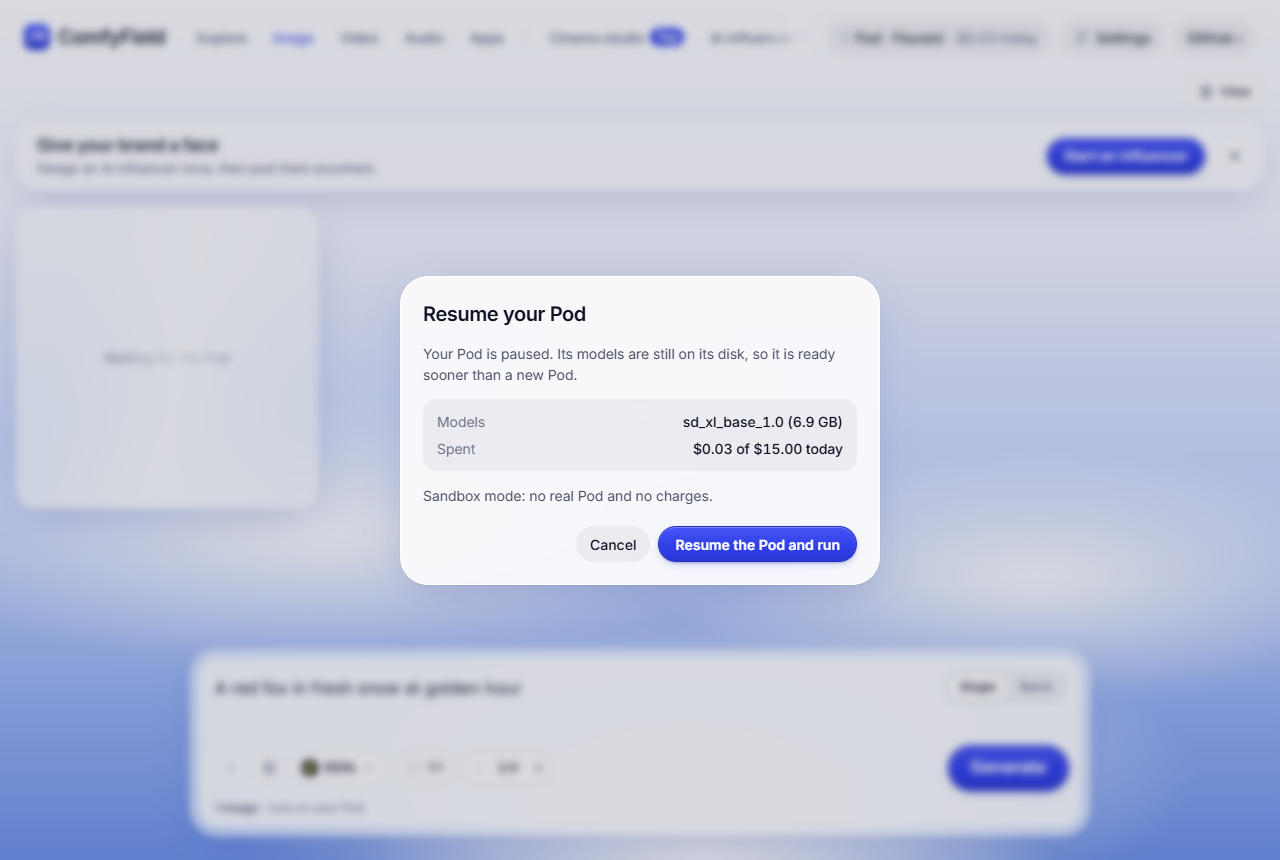
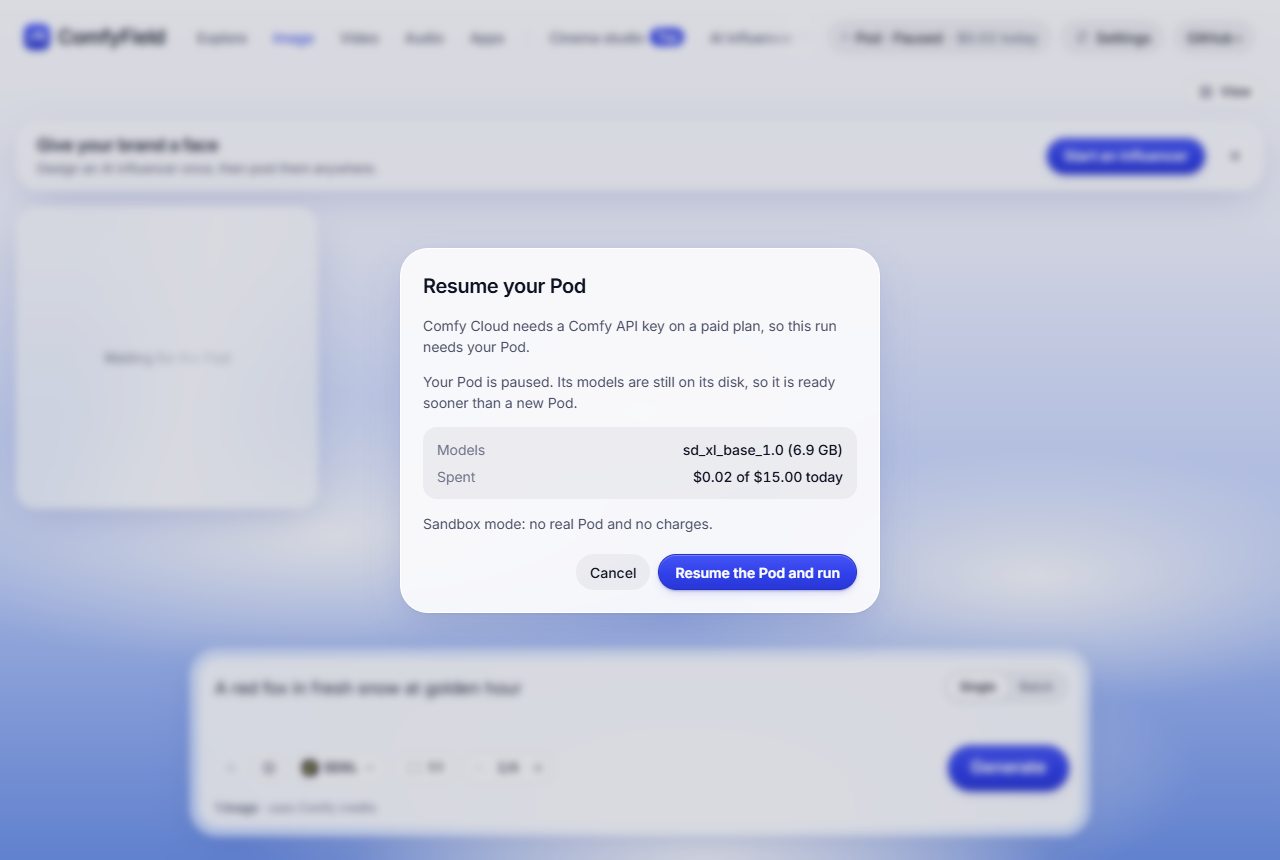
Run on Comfy Cloud at once, and on a Pod when one is ready
The Pod is now the long-term option and Comfy Cloud the instant one.
"Run workflows on" is Local or Comfy Cloud + Pod. A ready Pod takes
every ComfyUI run; otherwise a run goes to Comfy Cloud at once, also
while a Pod boots. Only a run Comfy Cloud cannot take (no Comfy key, or
a model file Cloud lacks, marked in shared/modelFiles.js) waits for a
starting Pod, or fails with needs_pod and its reason. The app then
opens the start sheet with that reason and runs again; the CLI and MCP
print it and never start a Pod. The chip shows wherever a Pod is an
option and says where runs go; the composer footnote follows the Pod.
pod-checks covers every row of the routing table.

Closes #73.

Changed region(s): [[0.3125, 0.2721, 0.6875, 0.7256]]

diff --git a/server/core.js b/server/core.js
@@ -7,7 +7,7 @@ import { randomUUID } from 'node:crypto'
 import { Comfy } from '@comfyorg/sdk'
 import { models as pinned, falCategories } from '../src/lib/catalog.js'
 import { comfyVars, comfyRouterInput, falInput, estimate, fill } from '../shared/mapping.js'
-import { modelFilesOf, minVramOf, volumeFor } from '../shared/modelFiles.js'
+import { modelFilesOf, minVramOf, notOnCloud, volumeFor } from '../shared/modelFiles.js'
 
 import { podManager } from './pod.js'
 import { sandboxFetch } from './podSandbox.js'
@@ -307,9 +307,8 @@ export async function writePrompts({ idea, n = 6, kind = 'video' }) {
 export async function testConnection(id) {
   const c = config(id)
   if (id === 'comfy') {
-    if (c.mode === 'pod') return pod().test()
-    if (c.mode === 'cloud') {
-      if (!c.key) return false
+    if (c.mode === 'cloud' || c.mode === 'pod') {
+      if (!c.key) return pod().test()
       const r = await fetch('https://cloud.comfy.org/api/user', { headers: { 'X-API-Key': c.key } })
       return r.ok
     }
@@ -335,8 +334,9 @@ export const mediaPath = (name) => path.join(mediaDir(), path.basename(name))
 export function connections() {
   const out = Object.fromEntries(Object.keys(providers).map((id) => {
     const c = config(id)
-    const on = id !== 'comfy' ? c.key : c.mode === 'cloud' ? c.key : c.mode === 'pod' ? config('runpod').key || sandboxed() : c.url || c.key
-    return [id, { connected: Boolean(on), url: c.url, key: mask(c.key), ...(id === 'comfy' ? { mode: c.mode || 'local' } : {}) }]
+    // Comfy Cloud + Pod can run with a Comfy key, or with a RunPod key through a Pod.
+    const on = id !== 'comfy' ? c.key : c.mode === 'cloud' || c.mode === 'pod' ? c.key || config('runpod').key || sandboxed() : c.url || c.key
+    return [id, { connected: Boolean(on), url: c.url, key: mask(c.key), ...(id === 'comfy' ? { mode: c.mode === 'pod' ? 'cloud' : c.mode || 'local' } : {}) }]
   }))
   out.comfyRouter = { connected: Boolean(config('comfy').key) }
   const rp = config('runpod')
@@ -346,7 +346,7 @@ export function connections() {
 
 export function saveConnection(id, values) {
   if (!providers[id]) throw Object.assign(new Error('Unknown provider'), { status: 400 })
-  if (id === 'comfy' && values.mode && !['local', 'cloud', 'pod'].includes(values.mode)) throw Object.assign(new Error('Choose Local, Comfy Cloud or Pod.'), { status: 400 })
+  if (id === 'comfy' && values.mode && !['local', 'cloud'].includes(values.mode)) throw Object.assign(new Error('Choose Local or Comfy Cloud + Pod.'), { status: 400 })
   if (id === 'runpod' && values.cap != null && !(parseFloat(values.cap) > 0)) throw Object.assign(new Error('The daily cap is a dollar amount above 0.'), { status: 400 })
   if (id === 'runpod' && values.cap != null) values = { ...values, cap: String(Math.round(parseFloat(values.cap) * 100) / 100) }
   const keys = readKeys()
@@ -480,8 +480,22 @@ export function workflowNeeds(workflow) {
   return { files, minVramGb: minVramOf(files), volumeGb: volumeFor(files) }
 }
 
+// Comfy Cloud is the instant option and a Pod the long-term one. A ready Pod takes every ComfyUI run;
+// otherwise a run goes to Comfy Cloud at once, unless Cloud cannot take it. Then it waits for a
+// starting Pod, or fails with needs_pod so the app can offer to start one. It never starts a Pod.
+async function comfyTarget(files, podPhase) {
+  const phase = await podPhase()
+  if (phase === 'ready') return 'pod'
+  const missing = notOnCloud(files)
+  const why = !config('comfy').key ? 'Comfy Cloud needs a Comfy API key on a paid plan'
+    : missing.length ? `${missing[0].name} is not on Comfy Cloud` : null
+  if (!why) return 'cloud'
+  if (phase === 'starting' || phase === 'resuming') return 'pod'
+  throw Object.assign(new Error(`${why}, so this run needs a Pod. Start one in ComfyField from the Pod chip in the top bar.`), { status: 409, code: 'needs_pod', reason: why })
+}
+
 // Runs a bundled workflow on Local ComfyUI, Comfy Cloud or the Pod, and returns file URLs.
-export async function runComfy(workflow, vars = {}, { createClient = (key, baseUrl) => comfyClient(baseUrl, key), lease = (o) => pod().lease(o) } = {}) {
+export async function runComfy(workflow, vars = {}, { createClient = (key, baseUrl) => comfyClient(baseUrl, key), lease = (o) => pod().lease(o), podPhase = () => pod().phaseNow() } = {}) {
   const { file, template } = readWorkflow(workflow)
   const inputs = [...JSON.stringify(template).matchAll(/\{\{(\w+)\}\}/g)].map((m) => m[1])
   for (const input of inputs) if (vars[input] == null || vars[input] === '') throw new Error(`Workflow ${workflow} requires ${input}.`)
@@ -489,13 +503,16 @@ export async function runComfy(workflow, vars = {}, { createClient = (key, baseU
   const loaders = Object.entries(template).filter(([, node]) => node.class_type === 'LoadImage' && node.inputs.image === '{{image}}')
   const image = loaders.length ? await comfyImage(vars.image) : null
   const mode = config('comfy').mode
+  // 'pod' was its own choice before the Pod joined Comfy Cloud; read it as Comfy Cloud + Pod.
   if (mode === 'cloud' || mode === 'pod') {
+    const needs = modelFilesOf(graph)
+    const target = await comfyTarget(needs, podPhase)
     // On the Pod the proxy token is the server credential; the Comfy key, when set, only pays partner nodes.
     let held = null
     let client
     let partner
-    if (mode === 'pod') {
-      held = await lease({ files: modelFilesOf(graph) })
+    if (target === 'pod') {
+      held = await lease({ files: needs })
       if (held.sandbox) {
         held.release()
         throw new Error('This is the sandbox Pod, so nothing renders. Unset COMFYFIELD_POD_SANDBOX to run on a real Pod.')
@@ -506,7 +523,7 @@ export async function runComfy(workflow, vars = {}, { createClient = (key, baseU
       partner = comfyKey()
       client = createClient(partner)
     }
-    const where = mode === 'pod' ? 'The Pod' : 'Comfy Cloud'
+    const where = target === 'pod' ? 'The Pod' : 'Comfy Cloud'
     try {
       const wf = await client.workflows.fromFile(file)
       wf.json = graph

diff --git a/shared/modelFiles.js b/shared/modelFiles.js
@@ -1,12 +1,13 @@
 // Model files a Pod can download, by the filename a workflow's loader node names. A workflow lists
 // nothing itself: its graph is the source of truth, and this list says where each file comes from.
 // Public Hugging Face repos only; sizes checked on the Hugging Face API on 2026-10-17.
+// `cloud` marks files Comfy Cloud already has (its model listing, 2026-10-16), so a run can go there at once.
 export const MODEL_FILES = {
-  'flux1-dev-fp8.safetensors': { repo: 'Comfy-Org/flux1-dev', path: 'flux1-dev-fp8.safetensors', dir: 'checkpoints', gb: 17.25, vramGb: 24 },
-  'flux1-schnell-fp8.safetensors': { repo: 'Comfy-Org/flux1-schnell', path: 'flux1-schnell-fp8.safetensors', dir: 'checkpoints', gb: 17.24, vramGb: 24 },
-  'sd_xl_base_1.0.safetensors': { repo: 'stabilityai/stable-diffusion-xl-base-1.0', path: 'sd_xl_base_1.0.safetensors', dir: 'checkpoints', gb: 6.94, vramGb: 12 },
-  'ltx-video-2b-v0.9.5.safetensors': { repo: 'Lightricks/LTX-Video', path: 'ltx-video-2b-v0.9.5.safetensors', dir: 'checkpoints', gb: 6.34, vramGb: 16 },
-  't5xxl_fp16.safetensors': { repo: 'comfyanonymous/flux_text_encoders', path: 't5xxl_fp16.safetensors', dir: 'text_encoders', gb: 9.79, vramGb: 0 },
+  'flux1-dev-fp8.safetensors': { repo: 'Comfy-Org/flux1-dev', path: 'flux1-dev-fp8.safetensors', dir: 'checkpoints', gb: 17.25, vramGb: 24, cloud: true },
+  'flux1-schnell-fp8.safetensors': { repo: 'Comfy-Org/flux1-schnell', path: 'flux1-schnell-fp8.safetensors', dir: 'checkpoints', gb: 17.24, vramGb: 24, cloud: true },
+  'sd_xl_base_1.0.safetensors': { repo: 'stabilityai/stable-diffusion-xl-base-1.0', path: 'sd_xl_base_1.0.safetensors', dir: 'checkpoints', gb: 6.94, vramGb: 12, cloud: true },
+  'ltx-video-2b-v0.9.5.safetensors': { repo: 'Lightricks/LTX-Video', path: 'ltx-video-2b-v0.9.5.safetensors', dir: 'checkpoints', gb: 6.34, vramGb: 16, cloud: true },
+  't5xxl_fp16.safetensors': { repo: 'comfyanonymous/flux_text_encoders', path: 't5xxl_fp16.safetensors', dir: 'text_encoders', gb: 9.79, vramGb: 0, cloud: true },
 }
 
 // Which input of which loader names a file, and the ComfyUI folder it loads from.
@@ -43,6 +44,9 @@ export function modelFilesOf(graph) {
   }
   return [...out.values()]
 }
+
+// Files a run needs that Comfy Cloud does not have.
+export const notOnCloud = (files) => files.filter((f) => !f.cloud)
 
 export const minVramOf = (files) => Math.max(0, ...files.map((f) => f.vramGb || 0))
 export const volumeFor = (files) => Math.ceil(files.reduce((n, f) => n + f.gb, 0) + HEADROOM_GB)

diff --git a/src/pages/VideoStudio.jsx b/src/pages/VideoStudio.jsx
@@ -14,6 +14,7 @@ import { label, paramsFor, useModelInputs } from '../components/generate/useMode
 import { IconAt, IconBook, IconFolder, IconMute, IconPlay, IconSound } from '../components/generate/icons.jsx'
 import { IconAspect, IconClock, IconImage, IconSpark, IconStack, IconVideo } from '../components/Icons.jsx'
 import { useApp } from '../lib/appContext.js'
+import { usePod } from '../lib/usePod.js'
 import { openModels } from '../lib/tools.js'
 import { estimate, useBalance, useModelMeta } from '../lib/cost.js'
 import { flowFromBatch, openFlow } from '../lib/flowStore.js'
@@ -32,6 +33,7 @@ const animate = asOpen(openModels.find((m) => m.id === 'wan-animate-2'))
 
 function CreateVideo({ preset, onPresets, setError, onRan, addBatch }) {
   const { gens, connections } = useApp()
+  const { status: pod } = usePod()
   const pick = useGenModel('video')
   const { model } = pick
   const [start, setStart] = useState(null)
@@ -182,7 +184,7 @@ function CreateVideo({ preset, onPresets, setError, onRan, addBatch }) {
           {total > 0 ? (
             <>
               <strong>{batching ? `${prompts.length} ${prompts.length === 1 ? 'prompt' : 'prompts'} × ${perPrompt} = ` : ''}{total} {noun.video[total === 1 ? 0 : 1]}</strong>
-              {cost ? ` · ${costText(cost)}` : model.provider === 'comfy' ? connections.comfy?.mode === 'cloud' || model.workflow === 'h3_i2v' ? ' · uses Comfy credits' : connections.comfy?.mode === 'pod' ? ' · runs on your Pod' : ' · runs on your GPU' : model.provider === 'comfyRouter' ? ' · uses Comfy credits' : ''}
+              {cost ? ` · ${costText(cost)}` : model.provider === 'comfy' ? connections.comfy?.mode === 'cloud' ? pod?.phase === 'ready' ? ' · runs on your Pod' : ' · uses Comfy credits' : model.workflow === 'h3_i2v' ? ' · uses Comfy credits' : ' · runs on your GPU' : model.provider === 'comfyRouter' ? ' · uses Comfy credits' : ''}
             </>
           ) : 'The cost shows on Generate before you run'}
           {bal && <span>{bal}</span>}

diff --git a/src/components/pod/PodChip.jsx b/src/components/pod/PodChip.jsx
@@ -1,6 +1,6 @@
 import { useEffect, useRef, useState } from 'react'
 import { Link, useLocation } from 'react-router-dom'
-import { downloading, money, podAction, podLabel, spendText, usePod } from '../../lib/usePod.js'
+import { downloading, money, podAction, podLabel, showPod, spendText, usePod } from '../../lib/usePod.js'
 
 const CLOUD = { SECURE: 'Secure', COMMUNITY: 'Community' }
 const tone = (phase) => (phase === 'ready' ? ' ok' : phase === 'none' || phase === 'paused' ? '' : ' busy')
@@ -44,7 +44,7 @@ export default function PodChip() {
     }
   }, [open])
 
-  if (!s || (s.mode !== 'pod' && s.phase === 'none')) return null
+  if (!showPod(s)) return null
 
   const act = async (action, body) => {
     setBusy(true)
@@ -94,7 +94,9 @@ export default function PodChip() {
             </dl>
           ) : (
             <>
-              <p className="pod-note">No Pod is running. A ComfyUI run asks before it starts one.</p>
+              <p className="pod-note">{s.instant
+                ? 'ComfyUI runs use Comfy Cloud at once. Start a Pod for a long session: it costs less when you run a lot, and it runs any model.'
+                : 'Add a Comfy API key in Connections for instant runs on Comfy Cloud, or start a Pod.'}</p>
               <dl className="pod-facts"><div><dt>Spent</dt><dd>{spendText(s)}</dd></div></dl>
             </>
           )}
@@ -104,6 +106,8 @@ export default function PodChip() {
               <i style={{ '--p': `${pct(d)}%` }} />
             </div>
           ))}
+          {p === 'ready' && <p className="pod-note">ComfyUI runs use this Pod.</p>}
+          {p === 'starting' && s.instant && <p className="pod-note">Runs use Comfy Cloud until the Pod is ready.</p>}
           {s.event && <p className="pod-note">{s.event.text}</p>}
           {s.sandbox && <p className="pod-note">Sandbox mode: no real Pod and no charges.</p>}
           {!s.connected && <p className="pod-note">Add your RunPod key in <Link to="/connections">Connections</Link> to start a Pod.</p>}

diff --git a/src/pages/ImageStudio.jsx b/src/pages/ImageStudio.jsx
@@ -11,6 +11,7 @@ import { label, paramsFor, useModelInputs } from '../components/generate/useMode
 import { IconAt, IconGrid } from '../components/generate/icons.jsx'
 import { IconAspect, IconClose, IconImage, IconPlus, IconSpark } from '../components/Icons.jsx'
 import { useApp } from '../lib/appContext.js'
+import { usePod } from '../lib/usePod.js'
 import { uploadImage } from '../lib/providers.js'
 import { estimate, useBalance, useModelMeta } from '../lib/cost.js'
 import { flowFromBatch, openFlow } from '../lib/flowStore.js'
@@ -22,6 +23,7 @@ const fan = [covers.peach, covers.dusk, covers.sky, covers.rose]
 // Higgsfield's Create image: the feed fills the page and the prompt bar is pinned to the bottom.
 export default function ImageStudio() {
   const { gens, connections } = useApp()
+  const { status: pod } = usePod()
   const pick = useGenModel('image')
   const { model } = pick
   const [batchMode, setBatchMode] = useState(false)
@@ -190,7 +192,7 @@ export default function ImageStudio() {
             {connected && (total > 0 ? (
               <span>
                 <strong>{batchMode ? `${prompts.length} ${prompts.length === 1 ? 'prompt' : 'prompts'} × ${count} = ` : ''}{total} {noun.image[total === 1 ? 0 : 1]}</strong>
-                {cost ? ` · ${costText(cost)}` : model.provider === 'comfy' ? connections.comfy?.mode === 'cloud' ? ' · uses Comfy credits' : connections.comfy?.mode === 'pod' ? ' · runs on your Pod' : ' · runs on your GPU' : model.provider === 'comfyRouter' ? ' · uses Comfy credits' : ''}
+                {cost ? ` · ${costText(cost)}` : model.provider === 'comfy' ? connections.comfy?.mode === 'cloud' ? pod?.phase === 'ready' ? ' · runs on your Pod' : ' · uses Comfy credits' : ' · runs on your GPU' : model.provider === 'comfyRouter' ? ' · uses Comfy credits' : ''}
               </span>
             ) : <span>{batchMode ? 'Add prompts to see the total' : 'The cost shows on Generate before you run'}</span>)}
             {bal && <span>{bal}</span>}

diff --git a/src/lib/usePod.js b/src/lib/usePod.js
@@ -49,22 +49,25 @@ export function podLabel(s, now = Date.now()) {
 
 export const spendText = (s) => (s ? `${money(s.spend.today)} of ${money(s.spend.cap)} today` : '')
 
-// What a waiting take says while its run is held by the Pod.
+// What a waiting take says while its run is held by the Pod. Only runs sent to a starting Pod carry `pod`;
+// a ready Pod takes every ComfyUI run.
 export function takeLabel(it, s) {
-  if (it.provider !== 'comfy' || s?.mode !== 'pod') return null
-  if (s.phase !== 'ready') return 'Waiting for the Pod'
-  if (downloading(s).length) return 'Downloading models on the Pod'
+  if (it.provider !== 'comfy' || !s || s.mode !== 'cloud') return null
+  if (it.pod && s.phase !== 'ready') return 'Waiting for the Pod'
+  if (s.phase === 'ready' && downloading(s).length) return 'Downloading models on the Pod'
   return null
 }
 
-// Called by run() for a ComfyUI model. A ready or starting Pod needs no question.
-export async function ensurePod(workflow) {
-  const s = await refreshPod()
-  if (!s || s.mode !== 'pod' || s.phase === 'ready' || s.phase === 'starting' || s.phase === 'resuming') return
+// The chip shows where a Pod is an option, and always while one exists, because a Pod charges.
+export const showPod = (s) => Boolean(s && (s.phase !== 'none' || (s.mode === 'cloud' && s.connected)))
+
+// A run Comfy Cloud cannot take asks once for a Pod. `reason` says why Cloud cannot take it.
+export function askPod(workflow, reason) {
   if (!state.ask) {
     let resolve, reject
     const promise = new Promise((a, b) => { resolve = a; reject = b })
-    set({ ask: { workflow, promise, resolve, reject } })
+    set({ ask: { workflow, reason, promise, resolve, reject } })
+    refreshPod()
   }
   return state.ask.promise
 }

diff --git a/src/lib/catalog.js b/src/lib/catalog.js
@@ -40,12 +40,12 @@ export const falCategories = [
 ]
 
 export const providerInfo = {
-  comfy: { name: 'ComfyUI', blurb: 'Run workflows on your own ComfyUI, Comfy Cloud or a Pod on RunPod. Your Comfy key also unlocks hosted models through Comfy Router.', fields: [
-    { id: 'mode', label: 'Run workflows on', options: [{ value: 'local', label: 'Local' }, { value: 'cloud', label: 'Comfy Cloud' }, { value: 'pod', label: 'Pod' }] },
+  comfy: { name: 'ComfyUI', blurb: 'Run workflows on your own ComfyUI, or on Comfy Cloud in seconds. For a long session, start a Pod from the top bar: while it runs, ComfyUI runs use it. Your Comfy key also unlocks hosted models through Comfy Router.', fields: [
+    { id: 'mode', label: 'Run workflows on', options: [{ value: 'local', label: 'Local' }, { value: 'cloud', label: 'Comfy Cloud + Pod' }] },
     { id: 'url', label: 'Server URL', placeholder: 'http://127.0.0.1:8188' },
     { id: 'key', label: 'Comfy API key', placeholder: 'Required for Cloud, Router and partner nodes', secret: true },
   ], link: 'https://docs.comfy.org' },
-  runpod: { name: 'RunPod', blurb: 'Your RunPod key starts a Pod: a GPU that runs ComfyUI for you, billed by the minute. Once the spend today reaches the daily cap, no new Pod starts.', fields: [
+  runpod: { name: 'RunPod', blurb: 'Your RunPod key starts a Pod: a GPU that runs ComfyUI for you, billed by the minute. It suits long sessions; Comfy Cloud covers a couple of runs. Once the spend today reaches the daily cap, no new Pod starts.', fields: [
     { id: 'key', label: 'API key', placeholder: 'RunPod API key', secret: true },
     { id: 'cap', label: 'Daily cap in dollars', placeholder: '20' },
   ], link: 'https://www.runpod.io/console/user/settings' },

diff --git a/server/plugin.js b/server/plugin.js
@@ -236,7 +236,11 @@ function mount(server) {
     // Anything that spends money or changes saved data must come from ComfyField's own pages.
     if (url.pathname.startsWith('/api/') && req.method !== 'GET' && crossSite(req.headers)) return send(res, 403, { error: 'Requests from other sites are refused.' })
     try {
-      if (url.pathname === '/api/pod' && req.method === 'GET') return send(res, 200, { ...core.pod().status(), mode: core.config('comfy').mode || 'local' })
+      if (url.pathname === '/api/pod' && req.method === 'GET') {
+        const { mode, key } = core.config('comfy')
+        // instant: Comfy Cloud can take runs at once. 'pod' was its own mode before; it now means Comfy Cloud + Pod.
+        return send(res, 200, { ...core.pod().status(), mode: mode === 'pod' ? 'cloud' : mode || 'local', instant: Boolean(key) })
+      }
       if (url.pathname === '/api/pod/quote') return send(res, 200, await podQuote(url.searchParams.get('workflow')))
       if (url.pathname.startsWith('/api/pod/') && req.method === 'POST') return send(res, 200, await podAction(url.pathname.slice('/api/pod/'.length), await body(req)))
       if (url.pathname === '/api/connections' && req.method === 'GET') return send(res, 200, core.connections())
@@ -282,7 +286,7 @@ function mount(server) {
       }
       if (url.pathname.startsWith('/comfy/')) return proxyComfy(req, res, url)
     } catch (e) {
-      return send(res, e.status || 500, { error: e.message, ...(e.code ? { code: e.code } : {}) })
+      return send(res, e.status || 500, { error: e.message, ...(e.code ? { code: e.code } : {}), ...(e.reason ? { reason: e.reason } : {}) })
     }
     next()
   })

diff --git a/src/lib/providers.js b/src/lib/providers.js
@@ -1,5 +1,5 @@
 import { generate as runComfy } from './comfy.js'
-import { ensurePod } from './usePod.js'
+import { askPod } from './usePod.js'
 import { comfyVars, comfyRouterInput, falInput, durationsFromProps } from '../../shared/mapping.js'
 
 const schemas = new Map()
@@ -64,7 +64,8 @@ async function post(url, payload) {
   return data
 }
 
-export async function run(model, opts) {
+// hooks.onPod: the run is waiting for a Pod, after the start sheet.
+export async function run(model, opts, hooks = {}) {
   if (model.provider === 'comfyRouter') {
     const files = []
     for (let i = 0; i < (model.kind === 'image' ? opts.count || 1 : 1); i++) {
@@ -73,9 +74,17 @@ export async function run(model, opts) {
     return files
   }
   if (model.provider === 'comfy') {
-    // In Pod mode, a run with no ready Pod waits for the start sheet; it never starts one itself.
-    await ensurePod(model.workflow)
-    return runComfy(model.workflow, comfyVars(model.kind, opts))
+    // Comfy Cloud takes the run at once. When it cannot, the server says needs_pod: the start sheet
+    // asks once, then the same run goes again and waits for the Pod. It never starts one by itself.
+    const vars = comfyVars(model.kind, opts)
+    try {
+      return await runComfy(model.workflow, vars)
+    } catch (e) {
+      if (e.code !== 'needs_pod') throw e
+      hooks.onPod?.()
+      await askPod(model.workflow, e.reason)
+      return runComfy(model.workflow, vars)
+    }
   }
   if (model.provider === 'fal') {
     const endpoint = await endpointFor(model, Boolean(opts.images?.length))

diff --git a/src/components/pod/PodSheet.jsx b/src/components/pod/PodSheet.jsx
@@ -59,7 +59,8 @@ export default function PodSheet() {
     <div className="scrim" onClick={cancel}>
       <div className="form-sheet glass pop pod-sheet" role="dialog" aria-modal="true" aria-labelledby="pod-sheet-title" onClick={(e) => e.stopPropagation()}>
         <h3 id="pod-sheet-title">{copy.title}</h3>
-        {kind === 'start' && <p>This run needs a Pod: a GPU on RunPod that runs ComfyUI with your key. It charges by the minute until it terminates.</p>}
+        {kind === 'start' && <p>{ask.reason ? `${ask.reason}, so this run needs a Pod: ` : 'This run needs a Pod: '}a GPU on RunPod that runs ComfyUI with your key. It charges by the minute until it terminates.</p>}
+        {kind !== 'start' && ask.reason && <p>{ask.reason}, so this run needs your Pod.</p>}
         {kind === 'resume' && <p>Your Pod is paused. Its models are still on its disk, so it is ready sooner than a new Pod.</p>}
         {kind === 'keep' && <p>Your Pod is ending after its queue. Keep it to run this too.</p>}
         {!quote && !err && <p className="pod-note">Checking prices</p>}

diff --git a/server/pod.js b/server/pod.js
@@ -500,10 +500,17 @@ export function podManager({ fetch: net = (...a) => globalThis.fetch(...a), now 
     m.timer.unref?.()
   }
 
+  // The phase right now, read fresh, for routing a run in any process.
+  async function phaseNow() {
+    await adopt().catch(() => null)
+    await refresh().catch(() => null)
+    return phase()
+  }
+
   async function test() {
     if (!key()) return false
     return gql('query { myself { id } }').then((d) => Boolean(d?.myself?.id)).catch(() => false)
   }
 
-  return { status, quote, start, pause, resume, terminate, keep, lease, tick, refresh, startMonitor, stopMonitor, test, guard, spentToday }
+  return { status, quote, start, pause, resume, terminate, keep, lease, tick, refresh, phaseNow, startMonitor, stopMonitor, test, guard, spentToday }
 }

diff --git a/src/lib/useGenerations.js b/src/lib/useGenerations.js
@@ -39,7 +39,7 @@ export function useGenerations() {
     waiting.current.push(async () => {
       setItems((xs) => xs.map((x) => (x.id === id ? { ...x, started: true } : x)))
       try {
-        const files = await run(model, opts)
+        const files = await run(model, opts, { onPod: () => setItems((xs) => xs.map((x) => (x.id === id ? { ...x, pod: true } : x))) })
         setItems((xs) => xs.flatMap((x) => (x.id === id
           ? files.map((f, i) => ({ id: `${id}-${i}`, ...base, ...f, created: Date.now() }))
           : [x])))
